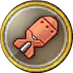
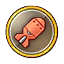
nueva maquetacion de pilotos

diff --git a/resources/views/partials/pilotTier.blade.php b/resources/views/partials/pilotTier.blade.php
@@ -1,56 +1,42 @@
-<table class="table footable" data-filtering="true" data-sorting="true">
-    <thead>
-    <tr>
-        <th data-sortable="false">Pilot</th>
-        <th data-sortable="false">Type</th>
-        @foreach($raids as $raid)
-            <th data-breakpoints="xs sm" class="td_tier td_{{ $raid->id }}" id="th_{{ $raid->name }} ">{{ trans('gk.'.$raid->name) }}</th>
-        @endforeach
-    </tr>
-    </thead>
-    <tbody style="overflow-y: auto" >
-        <tr class="tr_type tr_{{ $pilot->type }}">
-            <td>
-                <a href="{{ route('pilot', $pilot) }}">
-                    <div style="height: 128px; width: 128px">
-                        <img src="http://gkgirls.info.gf/img/pilots/{{ $pilot->id }}.png" alt="" style="position: absolute">
-                        <img src="http://gkgirls.info.gf/img/frame.png" class="pilot-headshot"  style="position: absolute">
-                    </div>
-                    <p><strong>{{ trans('gk.'.$pilot->name) }}</strong></p>
-                </a>
-            </td>
-            <td>
-                <div class="col-md-12">
-                    <img src="{{ asset('img/'.$pilot->type.'.png') }}" alt="">
-                    {{ $pilot->type }}
-                </div>
-                <div class="col-md-12 hidden-lg hidden-md">
-                    <p ><h2 class="click-expand"><strong>Click to see tiers</strong></h2></p>
-                </div>
-            </td>
-            @if (count($pilot->raid) == 0)
-                <td class="td_tier text-center" colspan="{{ count($raids) }}">
-                    <br><br><h1>No info yet</h1>
-                </td>
-            @else
-                @foreach($pilot->raid as $tier)
-                    <td class="td_tier td_{{ $tier->id }}">
-                        @include('partials.tierBadge', ['tier' => $tier->pivot->tier ])
-                    </td>
-                @endforeach
-            @endif
-        </tr>
-    </tbody>
-</table>
+<div class="row pilotDiv " style="border-bottom: 1px solid #E7EAEC; margin-bottom: 15px;padding-bottom: 15px">
+    <div class="col-md-12">
+        <p style="display: none" class="pilotName">{{ strtoupper(trans('gk.'.$pilot->name)) }}</p>
+        <p><strong>{{ trans('gk.'.$pilot->name) }}</strong></p>
+    </div>
+    <div class="col-md-3 col-sd-12 text-center">
+        <a href="{{ route('pilot', $pilot) }}">
 
-@section('scripts')
-    <script>
-        jQuery(function($){
-            $('.table').footable();
+            <div style="height: 128px; left:-64px; position: relative;">
+                <img src="http://gkgirls.info.gf/img/pilots/{{ $pilot->id }}.png" alt="" style="position: absolute">
+                <img src="http://gkgirls.info.gf/img/frame.png" class="pilot-headshot"  style="position: absolute">
+            </div>
+        </a>
+        <img style="position: relative; margin-top: 10px" src="{{ asset('img/'.$pilot->type.'.png') }}" alt="">
+    </div>
+    <div class="col-md-9 col-sd-12">
+        <div class="row">
+            <div class="col-md-6 col-sd-12">
+                @if (count($pilot->raid) == 0)
+                        <br><br><h1>No info yet</h1>
+                @else
+                    @foreach($raids as $raid)
+                        @if($loop->index == 3)
+                            </div>
+                            <div class="col-md-6 col-sd-12">
+                        @endif
+                            <div class="row" style="margin-top: 10px;">
+                                <div class="col-xs-6">
+                                    <strong>{{ trans('gk.'.$raid->name) }}</strong>
+                                </div>
+                                <div class="col-xs-6 text-left">
+                                    <img style="max-height: 40px" src="{{ asset('/img/'.$pilot->raid()->find($raid->id)->pivot->tier.'.png') }}" alt="">
+                                </div>
+                            </div>
+                    @endforeach
+                @endif
+            </div>
+            <br>
+        </div>
+    </div>
+</div>
 
-           $(".click-expand").click(function(){
-               $(this).parents('td').click();
-           });
-        });
-    </script>
-@endsection

diff --git a/resources/views/partials/tierTable.blade.php b/resources/views/partials/tierTable.blade.php
@@ -1,69 +1,32 @@
-<table class="table footable" data-filtering="true" data-sorting="true">
-    <thead>
-    <tr>
-        <th data-sortable="false">Pilot</th>
-        <th data-sortable="false">Type</th>
-        @foreach($raids as $raid)
-            <th data-breakpoints="xs sm" class="td_tier td_{{ $raid->id }}" id="th_{{ $raid->name }} ">{{ trans('gk.'.$raid->name) }}</th>
-        @endforeach
-    </tr>
-    </thead>
-    <tbody style="overflow-y: auto">
-    @foreach($pilots as $pilot)
-        <tr class="tr_type tr_{{ $pilot->type }}">
-            <td>
-                <a href="{{ route('pilot', $pilot) }}">
-                <div style="height: 128px; width: 128px">
-                    <img src="http://gkgirls.info.gf/img/pilots/{{ $pilot->id }}.png" alt="" style="position: absolute">
-                    <img src="http://gkgirls.info.gf/img/frame.png" class="pilot-headshot"  style="position: absolute">
-                </div>
-                <p><strong>{{ trans('gk.'.$pilot->name) }}</strong></p>
-                </a>
-            </td>
-            <td>
-                <div class="row">
-                    <div class="col-md-12 text-center">
-                        <img src="{{ asset('img/'.$pilot->type.'.png') }}" alt=""><br>
-                    </div>
-                    <div class="col-md-12 hidden-lg hidden-md">
-                        <p><h2 class="click-expand"><strong>Click to see tiers</strong></h2></p>
-                    </div>
-                </div>
-            </td>
-            @if (count($pilot->raid) == 0)
-                <td class="td_tier text-center" colspan="{{ count($raids) }}">
-                    <br><br><h1>No info yet</h1>
-                </td>
-            @else
-                @foreach($pilot->raid as $tier)
-                    <td class="td_tier td_{{ $tier->id }}">
-                        @include('partials.tierBadge', ['tier' => $tier->pivot->tier ])
-                    </td>
-                @endforeach
-            @endif
-        </tr>
-    @endforeach
-    </tbody>
-</table>
+<div class="form-group">
+    <label for="">Search</label>
+    <input type="text" class="form-control" id="search">
+</div>
+<hr>
+@foreach($pilots as $pilot)
+
+    @include('partials.pilotTier')
+
+@endforeach
 
 @section('scripts')
-<script>
-    jQuery(function($){
-        $('.table').footable({
-            @if(isset($raidId))
-            "filtering": {
-                "filters": [{
-                    "name": "my-filter",
-                    "query": "s",
-                    "columns": [{{$raidId+1}}]
-                }]
-            }
-            @endif
+    <script>
+        $(document).ready(function(){
+            $("#search").keyup(function(){
+                searchPilot();
+            });
         });
 
-        $(".click-expand").click(function(){
-            $(this).parents('td').click();
-        });
-    });
-</script>
+        function searchPilot(){
+            var search = $("#search").val().toUpperCase();
+            if (search != '') {
+                if (search.length >= 3){
+                    $(".pilotDiv").hide();
+                    $(".pilotDiv .pilotName:contains('"+search+"')").parents('.pilotDiv').show();
+                }
+            } else {
+                $(".pilotDiv").show();
+            }
+        }
+    </script>
 @endsection

diff --git a/resources/views/inspinia/menu.blade.php b/resources/views/inspinia/menu.blade.php
@@ -24,9 +24,9 @@
                     @endforeach
                 </ul>
             </li>
-            <li class="{{ Request::is('guides/*') ? 'active' : '' }}">
-                <a href="{{ route('guide.test') }}"><i class="fa fa-list-alt"></i> <span class="nav-label">Guides</span></a>
-            </li>
+            {{--<li class="{{ Request::is('guides/*') ? 'active' : '' }}">--}}
+                {{--<a href="{{ route('guide.test') }}"><i class="fa fa-list-alt"></i> <span class="nav-label">Guides</span></a>--}}
+            {{--</li>--}}
         </ul>
     </div>
 </nav>

diff --git a/resources/views/inspinia/footer.blade.php b/resources/views/inspinia/footer.blade.php
@@ -1,6 +1,6 @@
 <div class="footer fixed">
     <div class="pull-right">
-        v 0.3.1 <span class="label label-info" style="cursor: pointer" data-toggle="modal" data-target="#changeLogModal">Change log</span>
+        v 0.3.2 <span class="label label-info" style="cursor: pointer" data-toggle="modal" data-target="#changeLogModal">Change log</span>
     </div>
     <div>
         <strong>Copyright</strong> Zangles &copy; 2017

diff --git a/resources/views/pilot/list.blade.php b/resources/views/pilot/list.blade.php
@@ -1,7 +1,11 @@
 @extends('inspinia.base')
 
 @section('content')
+
     <div class="row">
+        <div class="col-md-12 text-center">
+            {{--<img class="img-responsive" src="{{ asset('/img/kraken.png') }}" alt="">--}}
+        </div>
         <div class="col-md-10 col-md-offset-1">
             <div class="ibox float-e-margins">
                 <div class="ibox-title">

diff --git a/app/Http/Controllers/HomeController.php b/app/Http/Controllers/HomeController.php
@@ -63,7 +63,10 @@ class HomeController extends Controller
 
     public function best($id)
     {
-        $pilots = Pilot::all();
+        $pilots = Pilot::whereHas('raid', function ($q) use ($id) {
+            $q->where('tier', 'S')->where('raid_id',$id);
+        })->get();
+
         $raids = Raid::all();
         $raidId = $id;
 

diff --git a/CHANGELOG.md b/CHANGELOG.md
@@ -1,9 +1,11 @@
 # __Change Log__
 ***
 
-### __v 0.X.X - XX-XX-XXXX__
+### __v 0.3.2 - 24-09-2017__
 
 - Fix same translations
+- New pilots list stiles
+- Same new images. Thx to razhielth for the [sprites](https://razhielth.deviantart.com/gallery/64226847/Goddess-Kiss)
 
 ### __v 0.3.1 - 15-09-2017__
 
